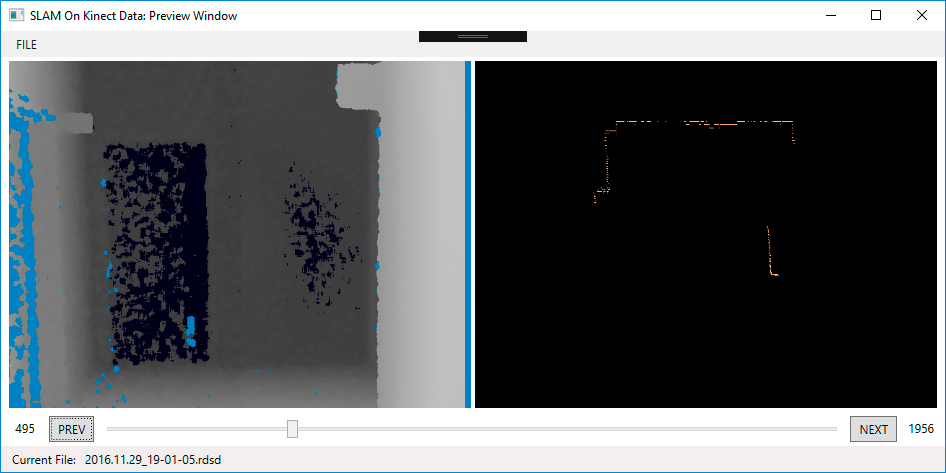
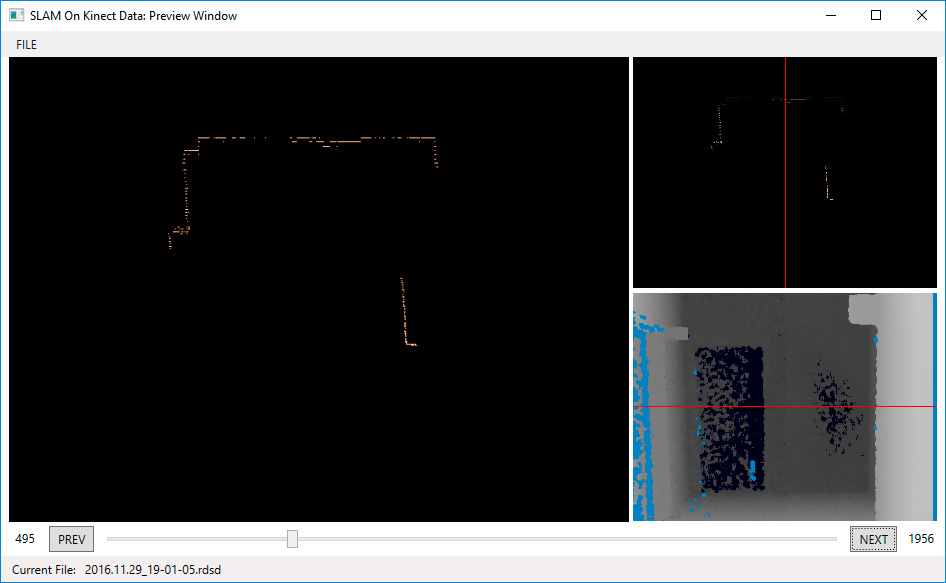
road to mapper impl.: model refactoring

diff --git a/SLAM/SLAM.Views/MainWindow.xaml b/SLAM/SLAM.Views/MainWindow.xaml
@@ -2,7 +2,7 @@
         xmlns="http://schemas.microsoft.com/winfx/2006/xaml/presentation"
         xmlns:x="http://schemas.microsoft.com/winfx/2006/xaml"
         Title="SLAM On Kinect Data: Preview Window"
-        Width="960" Height="586"
+        Width="960" Height="590"
         DataContext="{StaticResource MainVindowViewModel}">
     <DockPanel>
 
@@ -95,7 +95,7 @@
                 Margin="2,0,0,2">
                 <Grid>
                     <Viewbox>
-                        <Image Source="{Binding TopViewportData}"/>
+                        <Image Source="{Binding TopDepthViewportData}"/>
                     </Viewbox>
                     <Path Data="M0,0 L0,1"/>
                 </Grid>                

diff --git a/SLAM/SLAM.ViewModels/MainVindowViewModel.cs b/SLAM/SLAM.ViewModels/MainVindowViewModel.cs
@@ -18,7 +18,7 @@ namespace SLAM.ViewModels {
         private Model model;
 
         private WriteableBitmap mapViewportData;
-        private WriteableBitmap topViewportData;
+        private WriteableBitmap topDepthViewportData;
         private WriteableBitmap frontDepthViewportData;
 
         private string modelCurrentState;
@@ -40,9 +40,9 @@ namespace SLAM.ViewModels {
             get { return mapViewportData; }
             set { Set(ref mapViewportData, (WriteableBitmap)value); }
         }
-        public ImageSource TopViewportData {
-            get { return topViewportData; }
-            set { Set(ref topViewportData, (WriteableBitmap)value); }
+        public ImageSource TopDepthViewportData {
+            get { return topDepthViewportData; }
+            set { Set(ref topDepthViewportData, (WriteableBitmap)value); }
         }
         public ImageSource FrontDepthViewportData {
             get { return frontDepthViewportData; }
@@ -101,7 +101,7 @@ namespace SLAM.ViewModels {
 
         private void InitializeViewports() {
             MapViewportData = new WriteableBitmap(640, 480, 96.0, 96.0, PixelFormats.Bgr32, null);
-            TopViewportData = new WriteableBitmap(640, 480, 96.0, 96.0, PixelFormats.Bgr32, null);
+            TopDepthViewportData = new WriteableBitmap(640, 480, 96.0, 96.0, PixelFormats.Bgr32, null);
             FrontDepthViewportData = new WriteableBitmap(640, 480, 96.0, 96.0, PixelFormats.Bgr32, null);
 
         }
@@ -110,21 +110,24 @@ namespace SLAM.ViewModels {
 
             if ((DateTime.Now - lastTimeOfFrameUpdate) >= frameUpdateLimit) {
 
-                byte[] topViewportPixels = model.GetViewportCurveFrame(CurrentFrame);
-                byte[] frontViewportPixels = model.GetViewportFullFrame(CurrentFrame);
-                byte[] mapViewportPixels = topViewportPixels;
+                byte[] mapViewportPixels = model.GetViewportTopDepthFrame(CurrentFrame);
+                byte[] topDepthViewportPixels = model.GetViewportTopDepthFrame(CurrentFrame);
+                byte[] frontViewportPixels = model.GetViewportFrontDepthFrame(CurrentFrame);
 
                 if (mapViewportPixels != null) {
                     mapViewportData.WritePixels(
-                        new Int32Rect(0, 0, 640, 480), mapViewportPixels, topViewportData.PixelWidth * sizeof(int), 0);
+                        new Int32Rect(0, 0, 640, 480),
+                        mapViewportPixels, topDepthViewportData.PixelWidth * sizeof(int), 0);
                 }
-                if (topViewportPixels != null) {
-                    topViewportData.WritePixels(
-                        new Int32Rect(0, 0, 640, 480), topViewportPixels, topViewportData.PixelWidth * sizeof(int), 0);
+                if (topDepthViewportPixels != null) {
+                    topDepthViewportData.WritePixels(
+                        new Int32Rect(0, 0, 640, 480),
+                        topDepthViewportPixels, topDepthViewportData.PixelWidth * sizeof(int), 0);
                 }
                 if (frontViewportPixels != null) {
                     frontDepthViewportData.WritePixels(
-                        new Int32Rect(0, 0, 640, 480), frontViewportPixels, frontDepthViewportData.PixelWidth * sizeof(int), 0);
+                        new Int32Rect(0, 0, 640, 480),
+                        frontViewportPixels, frontDepthViewportData.PixelWidth * sizeof(int), 0);
                 }
                 lastTimeOfFrameUpdate = DateTime.Now;
             }

diff --git a/SLAM/SLAM.Models/Model.cs b/SLAM/SLAM.Models/Model.cs
@@ -16,8 +16,8 @@ namespace SLAM.Models {
         private IDataConverter curveFrameConverter;
         private Mapper mapper;
 
-        private byte[] fullFrameBuffer;
-        private byte[] curveFrameBuffer;
+        private byte[] topDepthFrameBuffer;
+        private byte[] frontDepthFrameBuffer;        
 
         public event ModelUpdatedEvent OnModelUpdated;
 
@@ -44,8 +44,8 @@ namespace SLAM.Models {
 
         public bool OpenFile(string fullFileName) {
             bool openResult  = reader.OpenFile(fullFileName);
-            fullFrameBuffer  = new byte[reader.FrameInfo.Length * sizeof(int)];
-            curveFrameBuffer = new byte[reader.FrameInfo.Length * sizeof(int)];
+            frontDepthFrameBuffer  = new byte[reader.FrameInfo.Length * sizeof(int)];
+            topDepthFrameBuffer = new byte[reader.FrameInfo.Length * sizeof(int)];
             fullFrameConverter = new DepthFullFrameConverter(reader.FrameInfo);
             curveFrameConverter = new DepthCurveConverter(reader.FrameInfo);
             return openResult;
@@ -62,28 +62,28 @@ namespace SLAM.Models {
             return calculateFramesCountTask;
         }
 
-        public byte[] GetViewportFullFrame(int frameIndex) {
-
-            byte[] rawData = reader.ReadFrameBytes(frameIndex);            
-
-            if (rawData != null) {
-                fullFrameConverter.ConvertRawDataToViewportFrame(rawData, fullFrameBuffer);
-                return fullFrameBuffer;
-            }
-            return null;
-        }
-
-        public byte[] GetViewportCurveFrame(int frameIndex) {
+        public byte[] GetViewportTopDepthFrame(int frameIndex) {
 
             byte[] rawData = reader.ReadFrameBytes(frameIndex);
 
             if (rawData != null) {
-                curveFrameBuffer = new byte[reader.FrameInfo.Length * sizeof(int)];
-                curveFrameConverter.ConvertRawDataToViewportFrame(rawData, curveFrameBuffer);
-                return curveFrameBuffer;
+                topDepthFrameBuffer = new byte[reader.FrameInfo.Length * sizeof(int)];
+                curveFrameConverter.ConvertRawDataToViewportFrame(rawData, topDepthFrameBuffer);
+                return topDepthFrameBuffer;
             }
             return null;
         }
+
+        public byte[] GetViewportFrontDepthFrame(int frameIndex) {
+
+            byte[] rawData = reader.ReadFrameBytes(frameIndex);            
+
+            if (rawData != null) {
+                fullFrameConverter.ConvertRawDataToViewportFrame(rawData, frontDepthFrameBuffer);
+                return frontDepthFrameBuffer;
+            }
+            return null;
+        }        
 
         public void CloseFile() {
             reader.CloseFile();

diff --git a/SLAM/SLAM.Models/Converters/DataConverter.cs b/SLAM/SLAM.Models/Converters/DataConverter.cs
@@ -1,7 +1,5 @@
-using System;
-using System.Runtime.CompilerServices;
+using System.Runtime.CompilerServices;
 using System.Windows.Media;
-using System.Windows.Media.Media3D;
 
 namespace SLAM.Models.Converters {
 
@@ -14,26 +12,6 @@ namespace SLAM.Models.Converters {
         }
 
         public abstract void ConvertRawDataToViewportFrame(byte[] rawInput, byte[] viewportOutput);
-
-        // Horizontal Mirror RAW Frame and swap [hi <--> low] bytes for each Int16\short depth
-        [MethodImpl(MethodImplOptions.AggressiveInlining)]
-        protected void HorizontalMirror(byte[] frame) {
-
-            int width  = FrameInfo.Width * sizeof(short);
-            int height = FrameInfo.Height;
-
-            for (int y = 0; y < height; ++y) {
-                for (int x = 0; x < width / 2; ++x) {
-
-                    int linearIndexNormal = GetLinearIndex(x, y, width);
-                    int linearIndexInverse = GetLinearIndex((width - 1 - x), y, width);
-
-                    byte tmp = frame[linearIndexNormal];
-                    frame[linearIndexNormal] = frame[linearIndexInverse];
-                    frame[linearIndexInverse] = tmp;
-                }
-            }
-        }
 
         [MethodImpl(MethodImplOptions.AggressiveInlining)]
         protected int GetLinearIndex(int x, int y, int width) {
@@ -53,31 +31,6 @@ namespace SLAM.Models.Converters {
             viewportByteArray[++startIndex] = color.G;
             viewportByteArray[++startIndex] = color.R;
             viewportByteArray[++startIndex] = color.A;
-        }
-
-
-        // --- Math Magic --- It is not yet used ---
-
-        private double AngleBetweenRays(Point3D ray1, Point3D ray2) {
-            double dotProduct = ray1.X * ray2.X + ray1.Y * ray2.Y + ray1.X * ray2.Z;
-            double magnitude1 = MagnitudeOfRay(ray1);
-            double magnitude2 = MagnitudeOfRay(ray2); ;
-            return Math.Acos(dotProduct / (magnitude1 * magnitude2));
-        }
-
-        private double AngleBetweenRays(double x1, double y1, double z1, double x2, double y2, double z2) {
-            double dotProduct = x1 * x2 + y1 * y2 + x1 * z2;
-            double magnitude1 = MagnitudeOfRay(x1, y1, z1);
-            double magnitude2 = MagnitudeOfRay(x2, y2, z2);
-            return Math.Acos(dotProduct / (magnitude1 * magnitude2));
-        }
-
-        private double MagnitudeOfRay(Point3D ray) {
-            return Math.Sqrt(Math.Pow(ray.X, 2.0) + Math.Pow(ray.Y, 2.0) + Math.Pow(ray.Z, 2.0));
-        }
-
-        private double MagnitudeOfRay(double x, double y, double z) {
-            return Math.Sqrt(Math.Pow(x, 2.0) + Math.Pow(y, 2.0) + Math.Pow(z, 2.0));
         }
     }
 }

diff --git a/SLAM/SLAM.Models/DataReader.cs b/SLAM/SLAM.Models/DataReader.cs
@@ -1,5 +1,7 @@
 using System;
 using System.IO;
+using System.Runtime.CompilerServices;
+
 
 namespace SLAM.Models {
 
@@ -62,16 +64,46 @@ namespace SLAM.Models {
         // performance critical
         public byte[] ReadFrameBytes(int frameIndex) {
 
+            if (CurrentFrame != 0 && CurrentFrame == frameIndex) {
+                return currentFrameBuffer;
+            }
+
             long savedPosition = reader.BaseStream.Position;
 
             reader.BaseStream.Position = CalculateOffset(frameIndex);
 
             if (reader.Read(currentFrameBuffer, 0, FrameInfo.BytesPerFrame) == FrameInfo.BytesPerFrame) {
                 CurrentFrame = frameIndex;
+                HorizontalMirror(currentFrameBuffer);
                 return currentFrameBuffer;
             }
             reader.BaseStream.Position = savedPosition;
             return null;
+        }
+
+        // Horizontal Mirror RAW Frame and swap [hi <--> low] bytes for each Int16\short depth
+        [MethodImpl(MethodImplOptions.AggressiveInlining)]
+        protected void HorizontalMirror(byte[] frame) {
+
+            int width  = FrameInfo.Width * sizeof(short);
+            int height = FrameInfo.Height;
+
+            for (int y = 0; y < height; ++y) {
+                for (int x = 0; x < width / 2; ++x) {
+
+                    int linearIndexNormal = GetLinearIndex(x, y, width);
+                    int linearIndexInverse = GetLinearIndex((width - 1 - x), y, width);
+
+                    byte tmp = frame[linearIndexNormal];
+                    frame[linearIndexNormal] = frame[linearIndexInverse];
+                    frame[linearIndexInverse] = tmp;
+                }
+            }
+        }
+
+        [MethodImpl(MethodImplOptions.AggressiveInlining)]
+        protected int GetLinearIndex(int x, int y, int width) {
+            return width * y + x;
         }
 
         private long CalculateOffset(int frameIndex) {

diff --git a/SLAM/SLAM.Models/Converters/DepthFullFrameConverter.cs b/SLAM/SLAM.Models/Converters/DepthFullFrameConverter.cs
@@ -30,8 +30,6 @@ namespace SLAM.Models.Converters {
 
         public override void ConvertRawDataToViewportFrame(byte[] rawInput, byte[] viewportOutput) {
 
-            HorizontalMirror(rawInput);
-
             int fullDepth = FrameInfo.MaxDepth - FrameInfo.MinDepth;
             double intencityStep = 192.0 / fullDepth;
 

diff --git a/SLAM/SLAM.Models/Converters/DepthCurveConverter.cs b/SLAM/SLAM.Models/Converters/DepthCurveConverter.cs
@@ -46,7 +46,6 @@ namespace SLAM.Models.Converters {
 
         public override void ConvertRawDataToViewportFrame(byte[] rawInput, byte[] viewportOutput) {
 
-            HorizontalMirror(rawInput);
             UpdatePointCloudMiddleLineFromRawInput(rawInput);
 
             for (int i = 0; i < FrameInfo.Width; ++i) {
